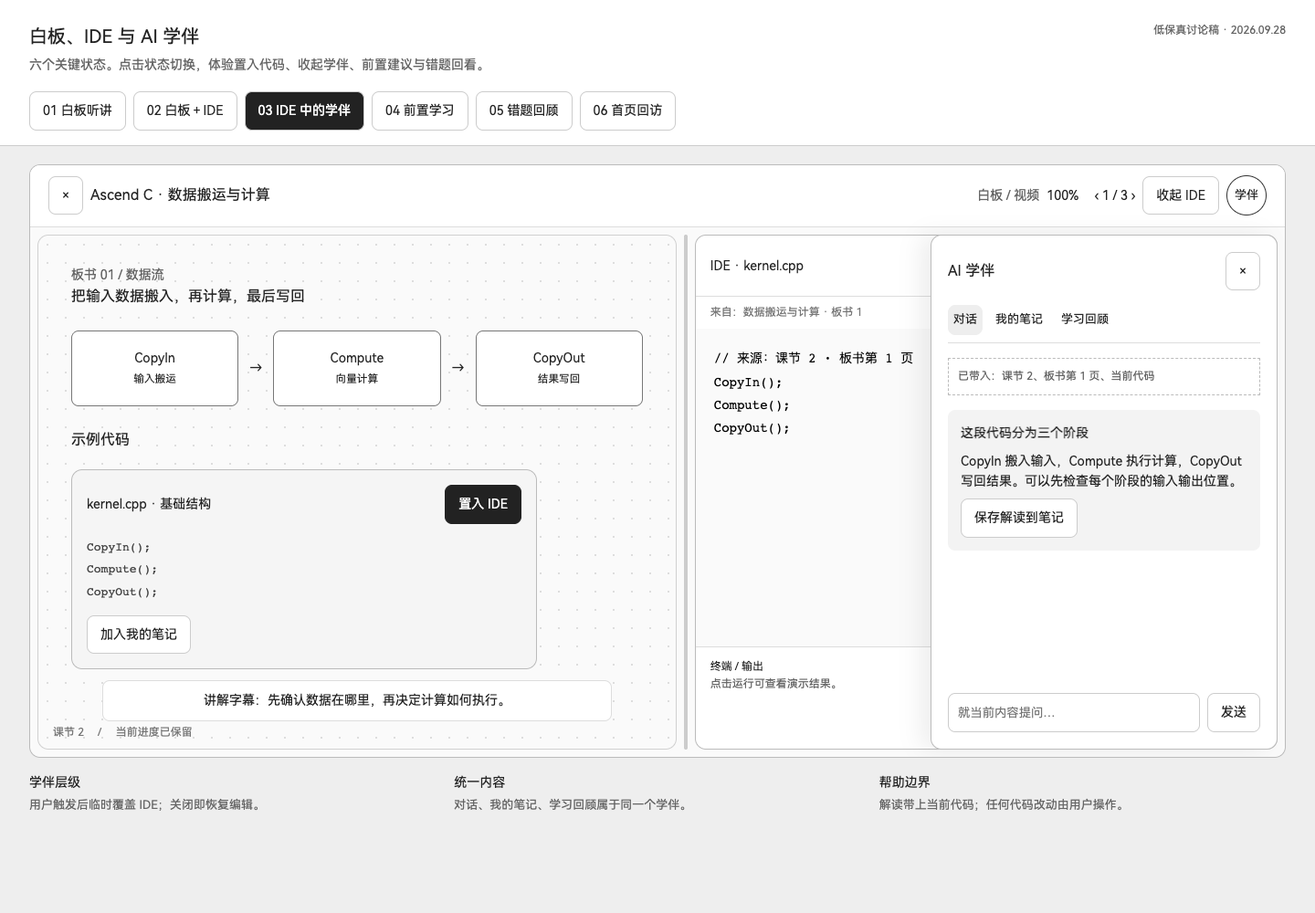
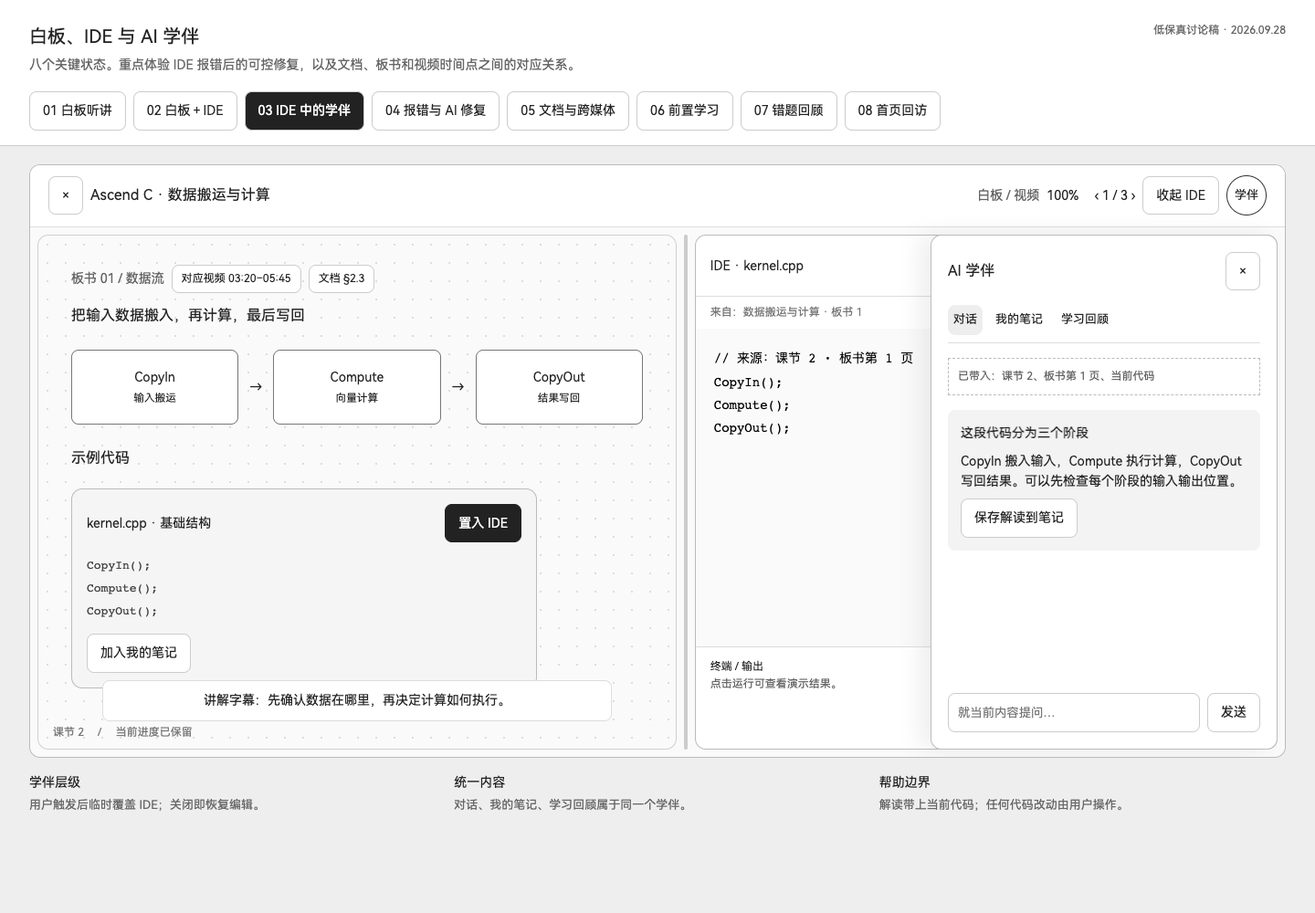
补齐 IDE 报错修复与跨媒体学习锚点
· 运行失败时提供错误定位、依据来源和经用户确认的 AI 修复差异
· 建立板书、文档章节与视频时间点的双向定位规则并补充低保真状态

diff --git a/companion-wireframes.html b/companion-wireframes.html
@@ -1,28 +1,31 @@
 <!doctype html>
 <html lang="zh-CN"><head><meta charset="utf-8"><meta name="viewport" content="width=device-width,initial-scale=1"><title>白板、IDE 与 AI 学伴 · 低保真</title>
 <style>
-@font-face{font-family:Harmony;src:url('assets/fonts/HarmonyOS_Sans_SC_Regular.woff2')}*{box-sizing:border-box}body{margin:0;background:#eee;font:14px/1.6 Harmony,'PingFang SC',sans-serif;color:#242424}button,textarea{font:inherit}button{cursor:pointer;border:1px solid #ccc;border-radius:8px;background:white;color:inherit;padding:9px 14px}button:hover{background:#eee}button:focus-visible,input:focus-visible,textarea:focus-visible{outline:2px solid #555;outline-offset:3px}.black{background:#222;color:white;border-color:#222}.black:hover{background:#444}.review{padding:24px 32px 16px;background:#fff;border-bottom:1px solid #ccc}.review h1{font-size:20px;font-weight:500;margin:0 0 4px}.muted{color:#666}.review p{margin:0}.states{display:flex;gap:8px;flex-wrap:wrap;margin-top:18px}.states button[aria-selected=true]{background:#222;color:white}.frame{margin:20px 32px 0;background:#fafafa;border:1px solid #bbb;border-radius:12px;overflow:hidden;height:650px;position:relative}.top{height:68px;border-bottom:1px solid #ddd;background:white;display:flex;align-items:center;justify-content:space-between;padding:12px 20px;gap:12px}.left,.tools{display:flex;align-items:center;gap:8px}.top h2{font-size:16px;font-weight:400;margin:0}.bubble{width:44px;height:44px;border-radius:50%;padding:0;font-size:13px;border:1px solid #333}.content{height:calc(100% - 68px);display:flex;gap:8px;padding:8px;position:relative}.board{flex:1;min-width:0;border:1px solid #d0d0d0;border-radius:12px;position:relative;background:radial-gradient(#ddd 1px,transparent 1px) 0 0/20px 20px;padding:32px 36px;overflow:auto}.board h3{font-size:16px;font-weight:500;margin:0 0 20px}.board h4{font-size:16px;font-weight:400;margin:20px 0 8px}.diagram{display:flex;gap:12px;align-items:center;margin:24px 0}.node{border:1px solid #777;background:white;border-radius:8px;padding:18px;flex:1;text-align:center}.code{border:1px solid #bbb;background:#f5f5f5;border-radius:12px;padding:16px;margin:20px 0;width:min(510px,100%)}.code-head{display:flex;align-items:center;justify-content:space-between;gap:8px}pre{font:13px/1.9 monospace;white-space:pre-wrap;color:#444}.caption{position:absolute;bottom:30px;left:10%;right:10%;text-align:center;background:white;border:1px solid #ddd;border-radius:8px;padding:10px}.page{position:absolute;bottom:8px;left:16px;font-size:12px;color:#777}.ide{width:47%;border:1px solid #bbb;background:white;border-radius:12px;overflow:hidden;display:flex;flex-direction:column;min-width:300px}.ide-head{padding:12px 16px;display:flex;justify-content:space-between;align-items:center;border-bottom:1px solid #ddd}.editor{width:100%;flex:1;resize:none;padding:20px;border:0;background:#fafafa;font:14px/1.8 monospace;outline-offset:-3px}.console{height:112px;border-top:1px solid #ddd;padding:12px 16px;font-size:12px}.split{width:4px;background:#ccc;cursor:col-resize;flex-shrink:0;border:0;padding:0;border-radius:4px;touch-action:none}.panel{width:330px;background:white;border:1px solid #bbb;border-radius:12px;display:flex;flex-direction:column;padding:18px;flex-shrink:0;z-index:3}.overlay{position:absolute;right:8px;top:8px;bottom:8px;width:min(380px,47%);box-shadow:-12px 0 24px #0001}.panel-head{display:flex;justify-content:space-between;align-items:center}.panel h3{font-size:16px;font-weight:400;margin:0}.panel-tabs{display:flex;gap:8px;margin:16px 0;border-bottom:1px solid #ddd;padding-bottom:8px}.panel-tabs button{padding:6px;font-size:13px;border:0}.panel-tabs button[aria-selected=true]{background:#eee}.panel-body{overflow:auto;flex:1}.context{border:1px dashed #bbb;padding:10px;font-size:12px;color:#666}.message{margin:16px 0;padding:14px;background:#f3f3f3;border-radius:8px}.message p{margin:8px 0}.message h4{font-size:14px;margin:0}.chat-input{margin-top:16px;display:flex;gap:8px}.chat-input button{white-space:nowrap;flex-shrink:0}.chat-input input{width:100%;min-width:0;border:1px solid #ccc;border-radius:8px;padding:10px}.nudge{position:absolute;right:20px;top:76px;width:330px;z-index:4;background:white;border:1px solid #aaa;border-radius:12px;padding:16px;box-shadow:0 8px 20px #0001}.nudge p{margin:6px 0 12px}.nudge header{display:flex;justify-content:space-between}.nudge header button{border:0;padding:0 4px}.preview,.home{padding:30px 40px;max-width:1040px;margin:auto;width:100%;overflow:auto}.preview h2,.home h2{font-size:20px;font-weight:400;margin:0 0 8px}.surface{border:1px solid #ccc;background:white;border-radius:12px;padding:20px;margin-top:20px}.surface h3{font-size:16px;font-weight:500;margin:0 0 8px}.prereq{display:flex;gap:12px;align-items:center;border-top:1px solid #ddd;padding:12px 0}.prereq:first-of-type{margin-top:12px}.prereq div{flex:1}.prereq p{margin:0;font-size:13px;color:#666}.row{display:flex;gap:12px;flex-wrap:wrap}.stamp{border:1px solid #aaa;border-radius:50%;width:28px;height:28px;display:grid;place-items:center;flex-shrink:0}.annotation{margin:16px 32px 28px;display:grid;grid-template-columns:1fr 1fr 1fr;gap:20px}.annotation p{margin:4px 0 0;color:#666;font-size:13px}.annotation b{font-weight:500}.review-tag{font-size:12px;color:#666;float:right}.toast{position:absolute;bottom:16px;left:50%;transform:translateX(-50%);background:#222;color:white;padding:10px 20px;border-radius:8px;z-index:8}.hidden{display:none!important}.course-placeholder{display:flex;gap:16px}.thumb{width:100px;height:88px;border:1px dashed #aaa;display:grid;place-items:center;color:#777}.summary{border-left:3px solid #888;padding-left:12px}.hint{font-size:12px;color:#777}.actions{display:flex;gap:8px;flex-wrap:wrap;margin-top:12px}@media(max-width:800px){.review{padding:16px}.frame{margin:12px;height:800px}.annotation{margin:12px;grid-template-columns:1fr}.tools .optional{display:none}.top{padding:8px}.top h2{font-size:14px}.content{flex-wrap:wrap;overflow:auto}.board{min-height:450px;padding:20px}.ide,.panel{width:100%;min-height:400px}.overlay{position:absolute;max-width:90%;width:340px;min-height:0}.split{display:none}.preview,.home{padding:20px}.caption{position:static;margin-top:20px}.nudge{right:12px;width:min(330px,90%)}.diagram{gap:6px}.node{padding:12px 6px}}@media print{.review,.annotation{break-inside:avoid}.frame{margin:10px 0;height:650px}.states{display:none}}
+@font-face{font-family:Harmony;src:url('assets/fonts/HarmonyOS_Sans_SC_Regular.woff2')}*{box-sizing:border-box}body{margin:0;background:#eee;font:14px/1.6 Harmony,'PingFang SC',sans-serif;color:#242424}button,textarea{font:inherit}button{cursor:pointer;border:1px solid #ccc;border-radius:8px;background:white;color:inherit;padding:9px 14px}button:hover{background:#eee}button:focus-visible,input:focus-visible,textarea:focus-visible{outline:2px solid #555;outline-offset:3px}.black{background:#222;color:white;border-color:#222}.black:hover{background:#444}.review{padding:24px 32px 16px;background:#fff;border-bottom:1px solid #ccc}.review h1{font-size:20px;font-weight:500;margin:0 0 4px}.muted{color:#666}.review p{margin:0}.states{display:flex;gap:8px;flex-wrap:wrap;margin-top:18px}.states button[aria-selected=true]{background:#222;color:white}.frame{margin:20px 32px 0;background:#fafafa;border:1px solid #bbb;border-radius:12px;overflow:hidden;height:650px;position:relative}.top{height:68px;border-bottom:1px solid #ddd;background:white;display:flex;align-items:center;justify-content:space-between;padding:12px 20px;gap:12px}.left,.tools{display:flex;align-items:center;gap:8px}.top h2{font-size:16px;font-weight:400;margin:0}.bubble{width:44px;height:44px;border-radius:50%;padding:0;font-size:13px;border:1px solid #333}.content{height:calc(100% - 68px);display:flex;gap:8px;padding:8px;position:relative}.board{flex:1;min-width:0;border:1px solid #d0d0d0;border-radius:12px;position:relative;background:radial-gradient(#ddd 1px,transparent 1px) 0 0/20px 20px;padding:32px 36px;overflow:auto}.board h3{font-size:16px;font-weight:500;margin:0 0 20px}.board h4{font-size:16px;font-weight:400;margin:20px 0 8px}.media-map{display:flex;gap:8px;align-items:center;flex-wrap:wrap;margin-bottom:12px}.media-map button{padding:5px 10px;font-size:12px}.diagram{display:flex;gap:12px;align-items:center;margin:24px 0}.node{border:1px solid #777;background:white;border-radius:8px;padding:18px;flex:1;text-align:center}.code{border:1px solid #bbb;background:#f5f5f5;border-radius:12px;padding:16px;margin:20px 0;width:min(510px,100%)}.code-head{display:flex;align-items:center;justify-content:space-between;gap:8px}pre{font:13px/1.9 monospace;white-space:pre-wrap;color:#444}.caption{position:absolute;bottom:30px;left:10%;right:10%;text-align:center;background:white;border:1px solid #ddd;border-radius:8px;padding:10px}.page{position:absolute;bottom:8px;left:16px;font-size:12px;color:#777}.ide{width:47%;border:1px solid #bbb;background:white;border-radius:12px;overflow:hidden;display:flex;flex-direction:column;min-width:300px}.ide-head{padding:12px 16px;display:flex;justify-content:space-between;align-items:center;border-bottom:1px solid #ddd}.editor{width:100%;flex:1;resize:none;padding:20px;border:0;background:#fafafa;font:14px/1.8 monospace;outline-offset:-3px}.console{min-height:112px;max-height:190px;overflow:auto;border-top:1px solid #ddd;padding:12px 16px;font-size:12px}.error-summary{border-left:3px solid #333;padding-left:10px}.error-summary strong{display:block;font-size:13px}.split{width:4px;background:#ccc;cursor:col-resize;flex-shrink:0;border:0;padding:0;border-radius:4px;touch-action:none}.panel{width:330px;background:white;border:1px solid #bbb;border-radius:12px;display:flex;flex-direction:column;padding:18px;flex-shrink:0;z-index:3}.overlay{position:absolute;right:8px;top:8px;bottom:8px;width:min(380px,47%);box-shadow:-12px 0 24px #0001}.panel-head{display:flex;justify-content:space-between;align-items:center}.panel h3{font-size:16px;font-weight:400;margin:0}.panel-tabs{display:flex;gap:8px;margin:16px 0;border-bottom:1px solid #ddd;padding-bottom:8px}.panel-tabs button{padding:6px;font-size:13px;border:0}.panel-tabs button[aria-selected=true]{background:#eee}.panel-body{overflow:auto;flex:1}.context{border:1px dashed #bbb;padding:10px;font-size:12px;color:#666}.message{margin:16px 0;padding:14px;background:#f3f3f3;border-radius:8px}.message p{margin:8px 0}.message h4{font-size:14px;margin:0}.diff{font:12px/1.7 monospace;background:#fff;border:1px solid #ccc;border-radius:8px;padding:10px}.minus{color:#6d4c4c}.plus{color:#305d45}.source-list{margin:8px 0;padding-left:20px}.source-list li{margin:7px 0}.chat-input{margin-top:16px;display:flex;gap:8px}.chat-input button{white-space:nowrap;flex-shrink:0}.chat-input input{width:100%;min-width:0;border:1px solid #ccc;border-radius:8px;padding:10px}.nudge{position:absolute;right:20px;top:76px;width:350px;z-index:4;background:white;border:1px solid #aaa;border-radius:12px;padding:16px;box-shadow:0 8px 20px #0001}.nudge p{margin:6px 0 12px}.nudge header{display:flex;justify-content:space-between}.nudge header button{border:0;padding:0 4px}.materials{width:360px;background:white;border:1px solid #bbb;border-radius:12px;padding:18px;overflow:auto}.materials h3{font-size:16px;font-weight:500;margin:0 0 4px}.material-card{border-top:1px solid #ddd;padding:14px 0}.material-card:first-of-type{margin-top:14px}.timeline{display:grid;grid-template-columns:54px 1fr;gap:8px 12px;margin-top:10px}.timeline button{padding:6px 8px}.video-stage{flex:1;border:1px solid #bbb;border-radius:12px;background:#e5e5e5;display:grid;grid-template-rows:1fr auto;overflow:hidden}.video-placeholder{display:grid;place-items:center;text-align:center;padding:32px}.video-placeholder .play{width:64px;height:64px;border-radius:50%;font-size:20px}.video-controls{background:white;border-top:1px solid #ccc;padding:14px 18px}.progress{height:6px;background:#ccc;border-radius:9px;margin:10px 0;position:relative}.progress::before{content:'';display:block;width:36%;height:100%;background:#333;border-radius:9px}.preview,.home{padding:30px 40px;max-width:1040px;margin:auto;width:100%;overflow:auto}.preview h2,.home h2{font-size:20px;font-weight:400;margin:0 0 8px}.surface{border:1px solid #ccc;background:white;border-radius:12px;padding:20px;margin-top:20px}.surface h3{font-size:16px;font-weight:500;margin:0 0 8px}.prereq{display:flex;gap:12px;align-items:center;border-top:1px solid #ddd;padding:12px 0}.prereq:first-of-type{margin-top:12px}.prereq div{flex:1}.prereq p{margin:0;font-size:13px;color:#666}.row{display:flex;gap:12px;flex-wrap:wrap}.stamp{border:1px solid #aaa;border-radius:50%;width:28px;height:28px;display:grid;place-items:center;flex-shrink:0}.annotation{margin:16px 32px 28px;display:grid;grid-template-columns:1fr 1fr 1fr;gap:20px}.annotation p{margin:4px 0 0;color:#666;font-size:13px}.annotation b{font-weight:500}.review-tag{font-size:12px;color:#666;float:right}.toast{position:absolute;bottom:16px;left:50%;transform:translateX(-50%);background:#222;color:white;padding:10px 20px;border-radius:8px;z-index:8}.hidden{display:none!important}.course-placeholder{display:flex;gap:16px}.thumb{width:100px;height:88px;border:1px dashed #aaa;display:grid;place-items:center;color:#777}.summary{border-left:3px solid #888;padding-left:12px}.hint{font-size:12px;color:#777}.actions{display:flex;gap:8px;flex-wrap:wrap;margin-top:12px}@media(max-width:800px){.review{padding:16px}.frame{margin:12px;height:800px}.annotation{margin:12px;grid-template-columns:1fr}.tools .optional{display:none}.top{padding:8px}.top h2{font-size:14px}.content{flex-wrap:wrap;overflow:auto}.board{min-height:450px;padding:20px}.ide,.panel,.materials{width:100%;min-height:400px}.overlay{position:absolute;max-width:90%;width:340px;min-height:0}.split{display:none}.preview,.home{padding:20px}.caption{position:static;margin-top:20px}.nudge{right:12px;width:min(350px,90%)}.diagram{gap:6px}.node{padding:12px 6px}}@media print{.review,.annotation{break-inside:avoid}.frame{margin:10px 0;height:650px}.states{display:none}}
 </style></head><body>
-<header class="review"><span class="review-tag">低保真讨论稿 · 2026.09.28</span><h1>白板、IDE 与 AI 学伴</h1><p class="muted">六个关键状态。点击状态切换，体验置入代码、收起学伴、前置建议与错题回看。</p><nav class="states" aria-label="低保真场景"></nav></header>
+<header class="review"><span class="review-tag">低保真讨论稿 · 2026.09.28</span><h1>白板、IDE 与 AI 学伴</h1><p class="muted">八个关键状态。重点体验 IDE 报错后的可控修复，以及文档、板书和视频时间点之间的对应关系。</p><nav class="states" aria-label="低保真场景"></nav></header>
 <main class="frame"><header class="top"><div class="left"><button id="exit" aria-label="回到首页场景">×</button><h2 id="lessonTitle">Ascend C · 数据搬运与计算</h2></div><div class="tools"><span class="optional muted">白板 / 视频</span><span class="optional">100%　 ‹ 1 / 3 ›</span><button id="ideToggle">打开 IDE</button><button id="companion" class="bubble" aria-label="展开 AI 学伴" aria-expanded="false">学伴</button></div></header><div id="content" class="content"></div><div id="toast" role="status" class="toast hidden"></div></main>
 <section class="annotation" id="annotation"></section>
 <script>
-const scenes=[['listen','01 白板听讲'],['practice','02 白板＋IDE'],['assistant','03 IDE 中的学伴'],['prerequisite','04 前置学习'],['review','05 错题回顾'],['home','06 首页回访']];
-const notes={listen:['入口','收起后的学伴固定在右上角。板书代码提供置入 IDE 入口。','状态保留','切换实践时保留板书页码、缩放和字幕位置。','主动提醒','听讲中不自动展开面板；建议在停顿点显示。'],practice:['布局','左白板、右 IDE，中间分隔条可拖动或用方向键调宽。','置入策略','插入光标处或新建文件，不覆盖已编辑代码。','上下文','示例来源与课节一起带入；关闭 IDE 后保留代码。'],assistant:['学伴层级','用户触发后临时覆盖 IDE；关闭即恢复编辑。','统一内容','对话、我的笔记、学习回顾属于同一个学伴。','帮助边界','解读带上当前代码；任何代码改动由用户操作。'],prerequisite:['触发','进入新课程且存在前置知识依赖。','证据','掌握记录未知时邀请自测，不直接判断用户不会。','用户选择','提供前置学习、自测和直接开始三个方向。'],review:['触发','测验已提交，按关联知识点汇总错题。','展开','结果摘要由用户点击进入学习回顾面板。','下一步','查看解析、回到原板书或重新练习。'],home:['返回触点','继续学习卡呈现未完成实验与待复习内容。','分身形态','右上气泡与学习页保持同一身份与位置。','打扰控制','不自动展开；同事件去重，冷却时长待细化。']};
-let state='listen', open=false, tab='对话', code='// 来源：课节 2 · 板书第 1 页\nCopyIn();\nCompute();\nCopyOut();', width=47;
+const scenes=[['listen','01 白板听讲'],['practice','02 白板＋IDE'],['assistant','03 IDE 中的学伴'],['error','04 报错与 AI 修复'],['materials','05 文档与跨媒体'],['prerequisite','06 前置学习'],['review','07 错题回顾'],['home','08 首页回访']];
+const notes={listen:['入口','收起后的学伴固定在右上角。板书代码提供置入 IDE 入口。','状态保留','切换实践时保留板书页码、缩放和字幕位置。','跨媒体锚点','板书页同时标注关联文档章节和视频时间段。'],practice:['布局','左白板、右 IDE，中间分隔条可拖动或用方向键调宽。','置入策略','插入光标处或新建文件，不覆盖已编辑代码。','上下文','示例来源与课节一起带入；关闭 IDE 后保留代码。'],assistant:['学伴层级','用户触发后临时覆盖 IDE；关闭即恢复编辑。','统一内容','对话、我的笔记、学习回顾属于同一个学伴。','帮助边界','解读带上当前代码；任何代码改动由用户操作。'],error:['错误反馈','运行失败后同时展示错误码、位置、原因和可执行下一步。','查找答案','优先提供官方文档、关联板书和对应视频时间点。','安全修复','AI 只生成差异建议；用户确认后写入，且需再次运行验证。'],materials:['文档呈现','文档以同屏辅助卡呈现，并保留原章节和打开原文入口。','双向定位','板书 1 对应视频 03:20–05:45，跳转后可返回同一板书。','统一锚点','板书页、视频区间、文档章节和代码片段使用同一学习锚点。'],prerequisite:['触发','进入新课程且存在前置知识依赖。','证据','掌握记录未知时邀请自测，不直接判断用户不会。','用户选择','提供前置学习、自测和直接开始三个方向。'],review:['触发','测验已提交，按关联知识点汇总错题。','展开','结果摘要由用户点击进入学习回顾面板。','下一步','查看解析、回到原板书或重新练习。'],home:['返回触点','继续学习卡呈现未完成实验与待复习内容。','分身形态','右上气泡与学习页保持同一身份与位置。','打扰控制','不自动展开；同事件去重，冷却时长待细化。']};
+let state='listen', open=false, tab='对话', code='// 来源：课节 2 · 板书第 1 页\nCopyIn();\nCompute();\nCopyOut();', width=47, fixApplied=false, mediaView='board', videoTime='04:10';
 const content=document.querySelector('#content');
 document.querySelector('.states').innerHTML=scenes.map(([id,t])=>`<button data-scene="${id}" aria-selected="false">${t}</button>`).join('');
-function board(){return `<section class="board"><span class="muted">板书 01 / 数据流</span><h3>把输入数据搬入，再计算，最后写回</h3><div class="diagram"><div class="node">CopyIn<br><small>输入搬运</small></div><span>→</span><div class="node">Compute<br><small>向量计算</small></div><span>→</span><div class="node">CopyOut<br><small>结果写回</small></div></div><h4>示例代码</h4><div class="code"><div class="code-head"><span>kernel.cpp · 基础结构</span><button class="black" data-action="insert">置入 IDE</button></div><pre>CopyIn();\nCompute();\nCopyOut();</pre><button data-action="note">加入我的笔记</button></div><div class="caption">讲解字幕：先确认数据在哪里，再决定计算如何执行。</div><span class="page">课节 2　 /　 当前进度已保留</span></section>`}
-function ide(){return `<div class="split" role="separator" tabindex="0" aria-label="调整 IDE 宽度" aria-orientation="vertical" aria-valuemin="30" aria-valuemax="65" aria-valuenow="${width}"></div><section class="ide" style="width:${width}%"><header class="ide-head"><span>IDE · kernel.cpp</span><div><button data-action="explain">解读</button> <button class="black" data-action="run">运行</button></div></header><div style="padding:8px 16px" class="hint">来自：数据搬运与计算 · 板书 1</div><textarea class="editor" aria-label="代码编辑器"></textarea><div class="console" id="console">终端 / 输出<br><span class="muted">点击运行可查看演示结果。</span></div></section>`}
-function panel(overlay=false){let body=tab==='我的笔记'?'<div class="message"><h4>数据搬运的三个阶段</h4><p>CopyIn → Compute → CopyOut</p><small>课节 2 · 板书 1</small><div class="actions"><button data-action="backboard">回到板书</button></div></div>':tab==='学习回顾'?'<div class="message"><h4>3 道错题涉及数据搬运</h4><p>题 2、4、5 均涉及输入输出位置判断，可先复习再练习。</p><small>依据：本次已提交的测验记录（演示）</small><div class="actions"><button data-action="analysis">查看解析</button><button data-action="backboard">回看板书</button></div></div>':'<div class="context">已带入：课节 2、板书第 1 页、当前代码</div><div class="message"><h4>这段代码分为三个阶段</h4><p>CopyIn 搬入输入，Compute 执行计算，CopyOut 写回结果。可以先检查每个阶段的输入输出位置。</p><button data-action="note">保存解读到笔记</button></div>';return `<aside class="panel ${overlay?'overlay':''}" aria-label="AI 学伴面板"><div class="panel-head"><h3>AI 学伴</h3><button data-action="close" aria-label="收起 AI 学伴">×</button></div><nav class="panel-tabs">${['对话','我的笔记','学习回顾'].map(t=>`<button data-tab="${t}" aria-selected="${t===tab}">${t}</button>`).join('')}</nav><div class="panel-body">${body}</div><form class="chat-input"><input aria-label="向学伴提问" placeholder="就当前内容提问…"><button type="submit">发送</button></form></aside>`}
+function board(){return `<section class="board"><div class="media-map"><span class="muted">板书 01 / 数据流</span><button data-action="video">对应视频 03:20–05:45</button><button data-action="document">文档 §2.3</button></div><h3>把输入数据搬入，再计算，最后写回</h3><div class="diagram"><div class="node">CopyIn<br><small>输入搬运</small></div><span>→</span><div class="node">Compute<br><small>向量计算</small></div><span>→</span><div class="node">CopyOut<br><small>结果写回</small></div></div><h4>示例代码</h4><div class="code"><div class="code-head"><span>kernel.cpp · 基础结构</span><button class="black" data-action="insert">置入 IDE</button></div><pre>CopyIn();\nCompute();\nCopyOut();</pre><button data-action="note">加入我的笔记</button></div><div class="caption">讲解字幕：先确认数据在哪里，再决定计算如何执行。</div><span class="page">课节 2　 /　 当前进度已保留</span></section>`}
+function ide(errorMode=false){const output=errorMode?`<div class="error-summary" role="alert" tabindex="-1"><strong>${fixApplied?'待验证：已应用 AI 建议':'运行失败 · 演示错误码 E-DEMO-102'}</strong><span>${fixApplied?'请重新运行，确认修复是否有效。':'kernel.cpp 第 8 行 · CopyOut 缺少结果长度参数'}</span><div class="actions">${fixApplied?'<button class="black" data-action="run">重新运行</button>':'<button data-action="locate">定位代码</button><button data-action="evidence">查看依据</button><button class="black" data-action="fix">AI 建议修复</button>'}</div></div>`:'终端 / 输出<br><span class="muted">点击运行可查看演示结果。</span>';return `<div class="split" role="separator" tabindex="0" aria-label="调整 IDE 宽度" aria-orientation="vertical" aria-valuemin="30" aria-valuemax="65" aria-valuenow="${width}"></div><section class="ide" style="width:${width}%"><header class="ide-head"><span>IDE · kernel.cpp</span><div><button data-action="explain">解读</button> <button class="black" data-action="run">运行</button></div></header><div style="padding:8px 16px" class="hint">来自：数据搬运与计算 · 板书 1</div><textarea class="editor" aria-label="代码编辑器"></textarea><div class="console" id="console">${output}</div></section>`}
+function panel(overlay=false){let body;if(state==='error'&&tab==='对话'){body=`<div class="context">已带入：错误码 E-DEMO-102、kernel.cpp 第 8 行、板书 1</div><div class="message"><h4>建议修复：补充结果长度参数</h4><p>原因：CopyOut 需要明确写回长度；当前调用缺少该参数。</p><div class="diff"><div class="minus">− CopyOut();</div><div class="plus">+ CopyOut(output, resultLength);</div></div><h4 style="margin-top:12px">如何找到答案</h4><ol class="source-list"><li>官方编程指南 §2.3 · 数据搬运</li><li>当前课程板书 1 · 结果写回</li><li>视频 05:05 · CopyOut 参数说明</li></ol><div class="actions"><button data-action="evidence">查看依据</button><button data-action="copyfix">仅复制</button><button class="black" data-action="applyfix">确认并应用</button></div><p class="hint">应用只修改当前文件，不会自动运行；你仍需重新验证。</p></div>`}else if(tab==='我的笔记'){body='<div class="message"><h4>数据搬运的三个阶段</h4><p>CopyIn → Compute → CopyOut</p><small>课节 2 · 板书 1</small><div class="actions"><button data-action="backboard">回到板书</button></div></div>'}else if(tab==='学习回顾'){body='<div class="message"><h4>3 道错题涉及数据搬运</h4><p>题 2、4、5 均涉及输入输出位置判断，可先复习再练习。</p><small>依据：本次已提交的测验记录（演示）</small><div class="actions"><button data-action="analysis">查看解析</button><button data-action="backboard">回看板书</button></div></div>'}else{body='<div class="context">已带入：课节 2、板书第 1 页、当前代码</div><div class="message"><h4>这段代码分为三个阶段</h4><p>CopyIn 搬入输入，Compute 执行计算，CopyOut 写回结果。可以先检查每个阶段的输入输出位置。</p><button data-action="note">保存解读到笔记</button></div>'}return `<aside class="panel ${overlay?'overlay':''}" aria-label="AI 学伴面板"><div class="panel-head"><h3>AI 学伴</h3><button data-action="close" aria-label="收起 AI 学伴">×</button></div><nav class="panel-tabs">${['对话','我的笔记','学习回顾'].map(t=>`<button data-tab="${t}" aria-selected="${t===tab}">${t}</button>`).join('')}</nav><div class="panel-body">${body}</div><form class="chat-input"><input aria-label="向学伴提问" placeholder="就当前内容提问…"><button type="submit">发送</button></form></aside>`}
+function materials(){return `<aside class="materials" aria-label="关联学习资料"><span class="muted">关联内容 · 学习锚点 A-01</span><h3>板书 1 的资料与视频</h3><div class="material-card"><b>文档</b><p>Ascend C 编程指南 §2.3<br><span class="muted">数据搬运：输入、计算与结果写回</span></p><button data-action="opendoc">打开原文 §2.3</button></div><div class="material-card"><b>视频时间点</b><div class="timeline"><button data-action="seek" data-time="03:20">03:20</button><span>输入搬运</span><button data-action="seek" data-time="04:10">04:10</button><span>向量计算</span><button data-action="seek" data-time="05:05">05:05</button><span>结果写回</span></div></div><div class="material-card"><b>映射范围</b><p class="muted">当前板书覆盖视频 03:20–05:45。切到视频后保留板书页码，返回时仍是板书 1。</p></div></aside>`}
+function video(){return `<section class="video-stage"><div class="video-placeholder"><div><button class="play" aria-label="播放视频">▶</button><h3>数据搬运与计算</h3><p class="muted">已定位到 <b>${videoTime}</b> · 来源：板书 1</p></div></div><div class="video-controls"><b>${videoTime} / 08:40</b><div class="progress" aria-label="视频播放进度"></div><div class="actions"><button data-action="returnboard">返回板书 1</button><button data-action="document">查看对应文档 §2.3</button></div></div></section>${materials()}`}
 function nudge(text,action,label){return `<aside class="nudge"><header><b>AI 学伴</b><button data-action="dismiss" aria-label="关闭建议">×</button></header><p>${text}</p><button class="black" data-action="${action}">${label}</button> <button data-action="dismiss">稍后</button></aside>`}
-function render(){document.querySelectorAll('[data-scene]').forEach(b=>b.setAttribute('aria-selected',String(b.dataset.scene===state)));document.querySelector('#companion').setAttribute('aria-expanded',String(open));document.querySelector('#lessonTitle').textContent=state==='home'?'开发者学习中心':state==='prerequisite'?'课程预览 · Ascend C 算子开发':'Ascend C · 数据搬运与计算';document.querySelector('#ideToggle').hidden=['home','prerequisite','review'].includes(state);document.querySelector('#ideToggle').textContent=['practice','assistant'].includes(state)?'收起 IDE':'打开 IDE';
-if(['listen','practice','assistant'].includes(state)){const hasIDE=state!=='listen';content.innerHTML=board()+(hasIDE?ide():'')+(open?panel(hasIDE):'');const editor=document.querySelector('.editor');if(editor){editor.value=code;editor.addEventListener('input',()=>code=editor.value)}bindSplit();}
+function render(){document.querySelectorAll('[data-scene]').forEach(b=>b.setAttribute('aria-selected',String(b.dataset.scene===state)));document.querySelector('#companion').setAttribute('aria-expanded',String(open));document.querySelector('#lessonTitle').textContent=state==='home'?'开发者学习中心':state==='prerequisite'?'课程预览 · Ascend C 算子开发':state==='materials'&&mediaView==='video'?'视频 · 数据搬运与计算':'Ascend C · 数据搬运与计算';document.querySelector('#ideToggle').hidden=['home','prerequisite','review','materials'].includes(state);document.querySelector('#ideToggle').textContent=['practice','assistant','error'].includes(state)?'收起 IDE':'打开 IDE';
+if(['listen','practice','assistant','error'].includes(state)){const hasIDE=state!=='listen';content.innerHTML=board()+(hasIDE?ide(state==='error'):'')+(open?panel(hasIDE):'');const editor=document.querySelector('.editor');if(editor){editor.value=code;editor.addEventListener('input',()=>code=editor.value)}bindSplit();}
+if(state==='materials'){content.innerHTML=mediaView==='video'?video():board()+materials()+(open?panel(true):'');}
 if(state==='prerequisite'){content.innerHTML=`<section class="preview"><span class="muted">开始之前</span><h2>Ascend C 算子开发</h2><p>学习自定义算子的编译、运行与结果验证。</p><div class="surface"><h3>建议先确认这两项基础</h3><p class="muted">本课程需要张量基础与 CANN 环境知识。</p><div class="prereq"><span class="stamp">1</span><div>张量形状与广播机制<p>掌握情况未知 · 尚无自测记录</p></div><button data-action="prereq">查看前置课</button></div><div class="prereq"><span class="stamp">2</span><div>CANN 环境配置<p>掌握情况未知 · 可直接开始或先自测</p></div><button data-action="selftest">快速自测</button></div></div><div class="surface"><h3>课程目录</h3><p>01 算子开发入门　　02 编程模型　　03 实践与验证</p><button class="black" data-action="direct">直接开始学习</button></div></section>${open?panel():nudge('你是否熟悉张量广播？可以用两道题确认学习起点。','selftest','快速自测')}`;}
 if(state==='review'){content.innerHTML=`<section class="preview"><span class="muted">测验已提交 · 演示数据</span><h2>本次学习回顾</h2><div class="surface"><h3>已完成 5 道题，其中 2 道正确</h3><div class="summary"><p>3 道错题涉及数据搬运</p><p class="muted">可以从输入与输出位置开始复习，再回到原题验证。</p></div><button class="black" data-action="review">查看错题总结</button></div><div class="surface"><h3>建议的复习顺序</h3><p>回看板书第 1 页 → 对照示例代码 → 重新练习</p><button data-action="backboard">回看板书</button></div></section>${open?panel():''}`;}
 if(state==='home'){content.innerHTML=`<section class="home"><span class="muted">我的学习</span><h2>继续上次的任务</h2><div class="surface course-placeholder"><div class="thumb">课程封面</div><div><h3>Ascend C 算子开发</h3><p>上次完成了代码编辑，实验还差结果验证。</p><button class="black" data-action="resume">继续实验</button></div></div><div class="surface"><h3>待复习 · 数据搬运</h3><p>有 3 道错题待回顾，来自上次提交的测验。</p><button data-action="review">复习错题</button></div></section>${open?panel():''}`;}
 const n=notes[state];document.querySelector('#annotation').innerHTML=[0,2,4].map(i=>`<div><b>${n[i]}</b><p>${n[i+1]}</p></div>`).join('');}
-function go(id){state=id;open=id==='assistant';tab=id==='review'?'学习回顾':'对话';render()}
+function go(id){state=id;open=['assistant','error'].includes(id);tab=id==='review'?'学习回顾':'对话';if(id==='materials')mediaView='board';render()}
 function toast(text){const t=document.querySelector('#toast');t.textContent=text;t.classList.remove('hidden');clearTimeout(window.toastTimer);window.toastTimer=setTimeout(()=>t.classList.add('hidden'),2600)}
 document.querySelector('.states').onclick=e=>{if(e.target.dataset.scene)go(e.target.dataset.scene)};
 document.querySelector('#companion').onclick=()=>{open=!open;render()};document.querySelector('#exit').onclick=()=>go('home');document.querySelector('#ideToggle').onclick=()=>go(state==='listen'?'practice':'listen');
@@ -32,7 +35,16 @@ if(a==='atcursor'){const ed=document.querySelector('.editor');const pos=ed.selec
 if(a==='newfile'){toast('演示：新建示例文件，原文件保留');e.target.closest('.nudge').remove()}
 if(a==='explain'){open=true;tab='对话';render()}if(a==='close'){open=false;render()}
 if(a==='note'){open=true;tab='我的笔记';render();toast('已保存到我的笔记')}
-if(a==='dismiss')b.closest('.nudge').remove();if(a==='run'){document.querySelector('#console').innerHTML='演示运行结束<br>环境初始化失败 · 示例错误 ENV_INIT';content.insertAdjacentHTML('beforeend',nudge('演示场景：同类环境错误重复出现，需要一起定位吗？','explain','帮我定位'))}
+if(a==='dismiss')b.closest('.nudge').remove();if(a==='run'){if(fixApplied){document.querySelector('#console').innerHTML='<div role="status"><strong>运行成功</strong><br>结果已写回，错误 E-DEMO-102 已解除。</div>';toast('重新运行成功，修复结果已验证')}else{state='error';open=false;render();content.insertAdjacentHTML('beforeend',nudge('检测到 E-DEMO-102。我可以解释原因并生成修复建议，应用前由你确认。','fix','查看修复建议'));setTimeout(()=>document.querySelector('.error-summary')?.focus(),0)}}
+if(a==='locate'){const ed=document.querySelector('.editor');ed.focus();const p=code.indexOf('CopyOut');ed.setSelectionRange(p,p+'CopyOut();'.length);toast('已定位到第 8 行 CopyOut 调用')}
+if(a==='fix'){open=true;tab='对话';render()}
+if(a==='applyfix'){code=code.replace('CopyOut();','CopyOut(output, resultLength);');fixApplied=true;open=false;render();toast('已应用建议，请重新运行验证')}
+if(a==='copyfix'){navigator.clipboard?.writeText('CopyOut(output, resultLength);');toast('修复代码已复制，当前文件未修改')}
+if(a==='evidence'){state='materials';mediaView='board';open=false;render();toast('已打开错误依据：文档 §2.3 与视频 05:05')}
+if(a==='video'){state='materials';mediaView='video';videoTime='03:20';open=false;render()}
+if(a==='document'||a==='opendoc'){state='materials';mediaView='board';open=false;render();toast('演示：文档 §2.3 已定位，板书页保持不变')}
+if(a==='seek'){videoTime=b.dataset.time;mediaView='video';render();toast('视频已定位到 '+videoTime)}
+if(a==='returnboard'){mediaView='board';render();toast('已返回板书 1，学习位置未丢失')}
 if(a==='direct'||a==='backboard')go('listen');if(a==='resume')go('practice');if(a==='review'){state='review';open=true;tab='学习回顾';render()}
 if(a==='analysis')b.closest('.message').insertAdjacentHTML('beforeend','<p>解析示例：CopyIn 负责输入搬运；CopyOut 负责结果写回。返回原题逐项核对。</p>');
 if(a==='selftest'||a==='prereq'){toast(a==='selftest'?'低保真入口：进入张量基础自测，完成后更新掌握记录':'低保真入口：张量形状与广播机制课程预览')}

diff --git a/design-system/patterns/whiteboard-learning.md b/design-system/patterns/whiteboard-learning.md
@@ -16,9 +16,11 @@
 | --- | --- | --- |
 | 顶部左侧 | `IconButton`、`LessonTitle` | 关闭课程、查看课节 |
 | 顶部右侧 | `ModeToggle`、`ToolBar` | 白板／视频、缩放、翻页、下载、AI 学伴、设置 |
-| 画布 | `BoardCanvas`、`LessonSubtitle` | 阅读板书、长按选词、翻页 |
+| 画布 | `BoardCanvas`、`LessonSubtitle`、`LearningAnchor` | 阅读板书、长按选词、翻页、跳转关联文档或视频时间点 |
 | 画布底部 | `CaptionBar` | 查看当前讲解字幕 |
 | 右侧 | `AICompanion`、`CompanionTabs` | 提问、查看我的笔记、收起 |
+| 实践区 | `IDEWorkbench`、`ErrorSummary`、`FixProposal` | 运行代码、定位错误、查找依据、确认 AI 修复 |
+| 关联资料 | `DocumentPanel`、`MediaTimeline` | 阅读对应文档、按时间点切换视频、返回原板书 |
 
 ## 交互序列
 
@@ -29,6 +31,34 @@
 5. AI 学伴提问自动带入当前课节、页码和选中文本上下文；
 6. 切换视频后保留课节和学习进度，返回白板恢复原页码。
 
+## IDE 报错与 AI 主动修复
+
+代码运行失败后，错误反馈必须靠近 IDE 终端，并且同时包含：错误码、发生位置、通俗原因和下一步操作。不能只用红色或一次性浮层表达失败。
+
+用户至少可以选择以下三条路径：
+
+1. “定位代码”：聚焦并选中发生错误的代码行；
+2. “查看依据”：打开官方文档章节、关联板书以及对应视频时间点；
+3. “AI 建议修复”：生成原因说明和修改前后差异。
+
+AI 可以在运行失败后主动提示能够协助，但不得静默改写代码。修复流程为“生成建议 → 展示 diff 与依据 → 用户确认应用 → 重新运行验证”。应用修复后保留撤销能力，且不得把“已应用”表述为“已修复”；只有重新运行成功后才能标记问题解决。
+
+## 文档、板书与视频的对应关系
+
+同一知识点使用统一的 `LearningAnchor`：
+
+| 字段 | 示例 | 用途 |
+| --- | --- | --- |
+| `lessonId` | `lesson-02` | 保持课节上下文 |
+| `boardPage` | `board-01` | 返回原板书页 |
+| `videoRange` | `03:20–05:45` | 标记该板书覆盖的视频区间 |
+| `documentSection` | `guide-2.3` | 定位文档章节 |
+| `codeSnippetId` | `copyout-basic` | 关联 IDE 代码片段 |
+
+白板顶部应展示关联视频区间和文档章节。点击视频时间点进入对应播放位置，不自动播放；返回白板时恢复原页码、缩放、字幕位置和 IDE 代码。文档默认以同屏辅助面板或抽屉呈现，并提供打开原文入口，避免为查定义而丢失学习现场。
+
+视频时间轴可以标出与板书一致的三个节点，例如 03:20 输入搬运、04:10 向量计算、05:05 结果写回。板书到视频是区间映射，文档到板书是章节映射，二者都必须支持反向返回。
+
 ## 状态表
 
 | 区域 | 状态 | 反馈 |
@@ -37,6 +67,8 @@
 | 选词 | `idle` / `selected` / `saved` | 选中区域和笔记保存结果可见 |
 | 字幕 | `playing` / `paused` / `completed` | 当前句高亮，完成后允许回看 |
 | AI 学伴 | `open` / `collapsed` / `answering` / `notes-empty` | 收起不丢上下文，回答显示来源 |
+| IDE 运行 | `idle` / `running` / `failed` / `fix-proposed` / `fix-applied` / `verified` | 失败可定位，建议有差异，应用后要求重新验证 |
+| 关联资料 | `board` / `document` / `video-seek` / `returning` | 切换媒体时保留统一学习锚点和返回位置 |
 
 ## 验收点
 
@@ -44,3 +76,6 @@
 - 右侧 AI 学伴收起后画布占满剩余空间；
 - 画布、字幕和 AI 学伴之间保持 20px 的主要间距节奏；
 - 颜色不是课堂要点、选词或完成状态的唯一表达方式。
+- IDE 报错后键盘焦点进入错误摘要，错误摘要提供可执行恢复路径；
+- AI 修复必须在用户确认后应用，应用前可查看依据，应用后可撤销并重新运行；
+- 板书、视频和文档之间的跳转可双向返回，不丢失板书页码、视频时间点或代码编辑状态。
